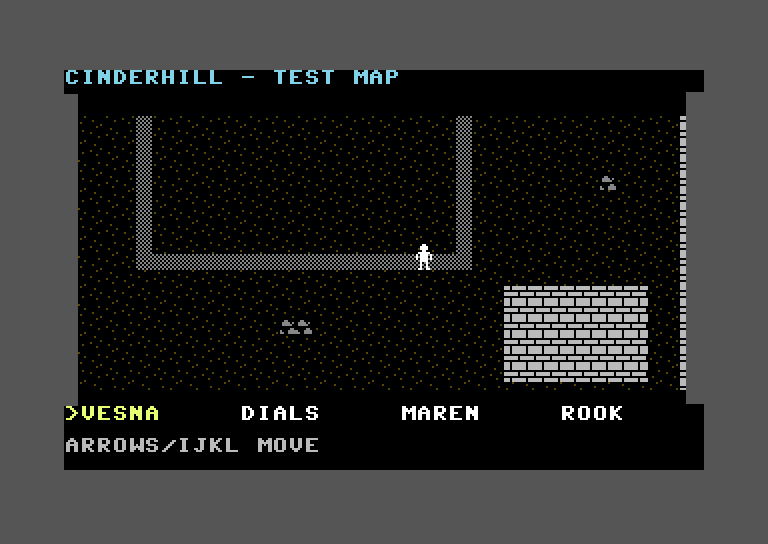
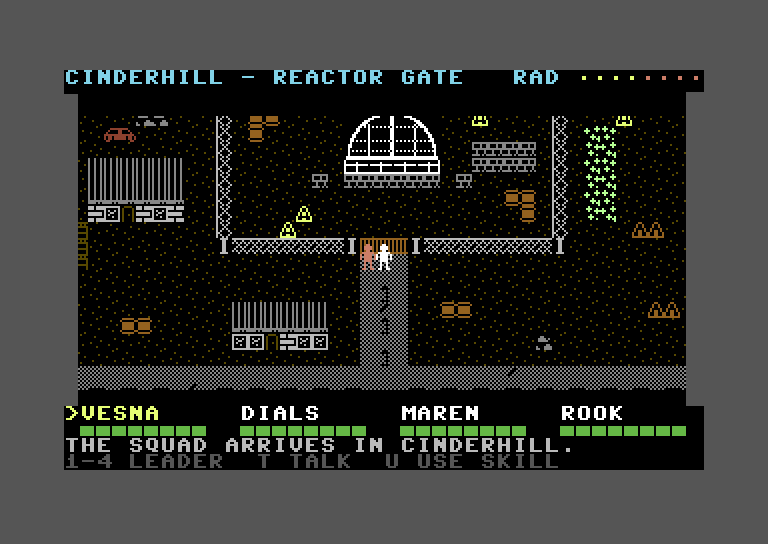
Nuclear Land: hot spots, radiation damage, Maren's heal and recovery; README for M2

diff --git a/nuclear-land/tests/test_radiation.py b/nuclear-land/tests/test_radiation.py
@@ -1,0 +1,52 @@
+"""M2 Task 6: hot spots drain the whole squad (4 hp per step onto a hot tile, never below 0); a sick
+member can't be chosen as leader but a sick leader still walks; Maren recovers on her own after 16
+steps away from radiation; Maren heals the squad by 12 and must then rest."""
+import sys
+from pathlib import Path
+
+sys.path.insert(0, str(Path(__file__).resolve().parent))
+import vice  # noqa: E402
+from c64render import nearest_index, set_palette  # noqa: E402
+
+LRED, YELLOW = 10, 7
+
+
+def main():
+    set_palette(vice.palette())
+    prg = vice.build({'TESTMAP': 1, 'AUTOWALK': 6})
+    lab = vice.labels(prg)
+    t = 9.0
+    rd = [(t, lab[k], n) for k, n in (('hot_steps', 1), ('refusals', 1), ('heals_done', 1), ('squad_hp', 4),
+                                       ('leader', 1), ('leader_x', 2))]
+    strip, hot, ref, heals, hp, lead, pos = vice.memread(prg, 0xc000 + 20 * 40, 120, wait_s=t, extra_reads=rd)
+    vice.check(hot[0] == 8, f'8 steps onto hot tiles: {hot[0]}')
+    vice.check(ref[0] == 1, f'choosing sick Maren was refused once: {ref[0]}')
+    vice.check(heals[0] == 1, f'Maren healed once (second U: must rest): {heals[0]}')
+    vice.check(list(hp) == [12, 12, 16, 12], f'hp after recovery + heal: {list(hp)}')
+    vice.check(lead[0] == 2, f'Maren leads: {lead[0]}')
+    vice.check(tuple(pos) == (31, 19), f'the sick leader kept walking to (31,19): {tuple(pos)}')
+    vice.check(strip[80:120] == vice.scr('MAREN NEEDS TO REST FIRST.'.ljust(40)), f'message: {strip[80:120]!r}')
+    b4, b0 = lab['G_BAR4'], lab['G_BAR0']
+    vice.check(strip[41:49] == bytes([b4] * 3 + [b0] * 5), 'Vesna 12 hp: 3 full cells')
+    vice.check(strip[61:69] == bytes([b4] * 4 + [b0] * 4), 'Maren 16 hp: 4 full cells')
+
+    prg = vice.build({'TESTMAP': 1, 'AUTOWALK': 15})
+    lab = vice.labels(prg)
+    strip, hp = vice.memread(prg, 0xc000 + 20 * 40, 80, wait_s=6.0, extra_reads=[(6.0, lab['squad_hp'], 4)])
+    vice.check(list(hp) == [0, 0, 0, 0], f'8 hot steps from full health: everyone at 0 ({list(hp)})')
+    vice.check(all(strip[40 + 10 * m + 1:40 + 10 * m + 9] == vice.scr('SICK    ') for m in range(4)),
+               'all four bars read SICK')
+    shot = vice.screenshot(prg, 5_000_000 + 400 * vice.CYCLES_PER_FRAME)
+    shot.save(vice.BUILD / 'radiation_sick.png')
+    x0, y0 = vice.screen_box(shot)
+
+    def name_colour(m):
+        cols = [nearest_index(shot.getpixel((x0 + x, y0 + y))) for y in range(168, 176)
+                for x in range((10 * m + 1) * 8, (10 * m + 5) * 8)]
+        return max({c for c in cols if c}, key=cols.count)
+    vice.check(name_colour(0) == YELLOW and all(name_colour(m) == LRED for m in (1, 2, 3)),
+               'names: leader yellow, the sick others light red')
+
+
+if __name__ == '__main__':
+    main()

diff --git a/nuclear-land/README.md b/nuclear-land/README.md
@@ -30,18 +30,25 @@ its people.
 
 ## Status
 
-**Milestone 1 — walking engine (done).** A 64×48-tile test map scrolls under a single squad
-figure:
+**Milestone 1: walking engine (done).** Smooth 8-frame glide per tile step in all four directions,
+hardware fine scrolling with double-buffered coarse scrolling, a rock-still status line and squad
+strip, the camera stopping at the map edges, a steady 50 fps (PAL).
 
-- Smooth 8-frame glide per tile step in all four directions, chaining with no stall while a key
-  is held.
-- Hardware fine scroll (`$D016` / `$D011`) with double-buffered coarse scrolling — no tearing.
-- The status line and the squad strip stay rock-still while the map scrolls beneath them.
-- At the map's edges the camera stops and the figure walks on instead.
-- Walls and buildings block movement.
-- Runs at a steady 50 fps (PAL).
+**Milestone 2: Cinderhill (done).** The real town, 64×48 tiles:
 
-**Next:** Cinderhill itself — the real town map, townspeople, and the talking screen.
+- Ten districts (Market Row, the Reactor Yard and Gate, Old Lots, West Shacks, the Caravan Camp,
+  Town Hall, Storehouse, Greenhouse and the Town Square), drawn from a 45-tile hi-res set with a
+  multi-cell reactor dome.
+- Seven townspeople as hardware sprites. They stay glued to the map while it scrolls and block your
+  way. Pip wanders Market Row.
+- A status line naming the district you're in, with a Geiger meter that rises near hot spots.
+- A squad strip with the leader marked, health bars, and a message line.
+- Keys **1–4** switch the leader, and the squad figure takes the leader's colour. **T** next to a
+  person picks them to talk to (the talking screen comes next).
+- Glowing hot spots drain everyone's health. A member at zero is sick and can't lead. With Maren
+  leading, **U** treats the squad, and she recovers by herself away from radiation. Nobody dies.
+
+**Next:** the talking screen, with Hesper's conversation and portrait.
 
 ## Running it
 
@@ -63,19 +70,30 @@ set to NTSC.
 |-----|--------|
 | Cursor keys | Move up / down / left / right |
 | `I` / `K` / `J` / `L` | Move up / down / left / right |
+| `1` `2` `3` `4` | Choose the leader: Vesna, Dials, Maren, Rook |
+| `T` | Talk to the person next to you |
+| `U` | Use the leader's skill (Maren: treat the squad) |
 
-Both sets always work. There is no joystick support.
+Both sets of movement keys always work. There is no joystick support.
 
 ## Building the assets
 
-The tile graphics and map binaries in `gen/` are generated and committed. To rebuild them after
+The tile graphics and map data in `gen/` are generated and committed. To rebuild them after
 editing the tile art in `tools/make_tiles.py` or a map in `maps/`:
 
 ```sh
-python3 tools/make_map.py testmap     # also regenerates gen/tiles.bin, tilecolors.bin, tiles.inc
+python3 tools/make_map.py cinderhill  # also regenerates gen/tiles.bin, tilecolors.bin, tiles.inc
+python3 tools/make_map.py testmap     # the engine tests' map
 ```
 
-Maps are plain 64×48 ASCII: `.` ground, `=` road, `:` rubble, `#` wall.
+A map is 48 rows of 64 legend characters followed by meta lines (`start`, `place`, `person`,
+`wander`). Ground and roads are passable: `.` ground, `=` road, `-` and `|` lane markings, `%`
+cracked road, `^` hot spot. Everything else blocks: `#` brick wall, `C` concrete, `W` broken window,
+`D` door, `R`/`E` tin roof and its edge, `F`/`V` chain-link fence, `+` fence post, `G` gate, `!`
+hazard sign, `o` barrel, `g` greenhouse glass, `*` plants, `[` `]` wrecked car, `P` pump, `S` market
+stall, `T` tent, `K` cart, `:` rubble, and `@` for the 6×4 reactor dome. The tool also writes each
+map's radiation field, place table and people table, and `tests/test_map_data.py` checks the map's
+rules: no hot spot ever cuts off part of the town, and everyone can be reached.
 
 ## Tests
 
@@ -99,8 +117,11 @@ add load so every frame of a glide can be checked.
 | `irq.asm` | Raster interrupt chain: status line, map band, HUD |
 | `walk.asm` | Step glide, camera, collision, edge clamp |
 | `view.asm` | Draws the map into the back screen buffer |
-| `input.asm` | Keyboard matrix scan (arrows + IJKL) |
-| `hud.asm` | Status line and squad strip |
+| `input.asm` | Keyboard matrix scan: movement and action keys |
+| `people.asm` | Townspeople sprites: placement, visibility, blocking, Pip's wander |
+| `status.asm` | Status line: place name and Geiger meter |
+| `squad.asm` | Health, leader, actions, radiation, healing, messages |
+| `hud.asm` | Squad strip: names, health bars, message line |
 | `charset.asm` | Builds the character set (ROM font + tiles) |
 | `hw.inc` | Hardware registers and memory map |
 
@@ -117,4 +138,9 @@ add load so every frame of a glide can be checked.
   (raster lines 74–210), so its top and bottom edges don't bounce as it scrolls.
 - **Coarse scrolling:** each step redraws the back buffer in thirds across the first frames of
   the glide, then flips buffers mid-glide. The colour RAM copy is unrolled to fit in the
-  flip frame.
+  flip frame. These long jobs run after the sprites are placed, so sprite positions are always
+  written well before the map is drawn.
+- **Townspeople:** each person's sprite position comes from the same camera and fine-scroll values
+  as the map, so they move with it pixel for pixel. A sprite is only shown while all of its raster
+  lines stay clear of the screen splits, so near the top and bottom of the map people pop in and
+  out instead of sliding past the edge.

diff --git a/README.md b/README.md
@@ -22,8 +22,8 @@ technical deep-dives.
 
 A prototype party RPG set in a ruined town whose failing reactor holds a mystery: walk Cinderhill
 with a four-person squad and talk to its wary townspeople by typing keywords, earning their trust
-one conversation at a time. The smooth-scrolling walking engine is done; the town and its people
-come next. See [`nuclear-land/README.md`](nuclear-land/README.md) for status, build instructions,
+one conversation at a time. The smooth-scrolling town of Cinderhill and its people are in; the
+talking screen comes next. See [`nuclear-land/README.md`](nuclear-land/README.md) for status, build instructions,
 and how it works.
 
 ## License
